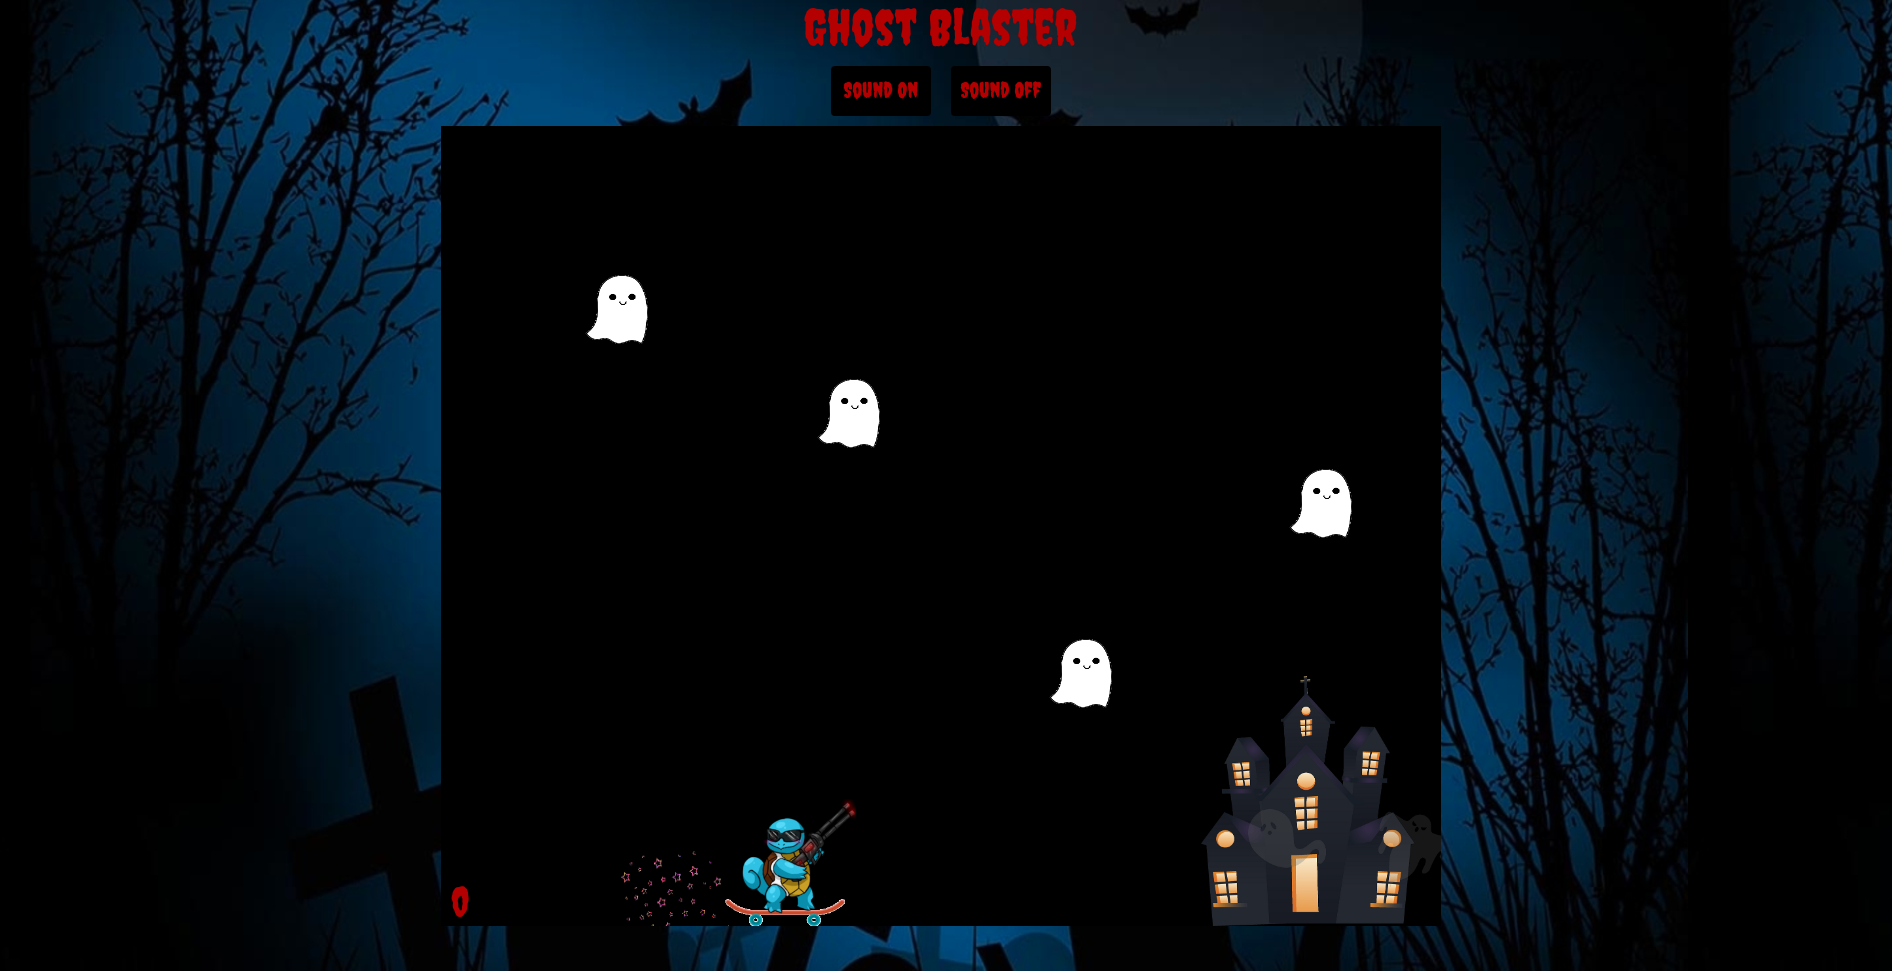
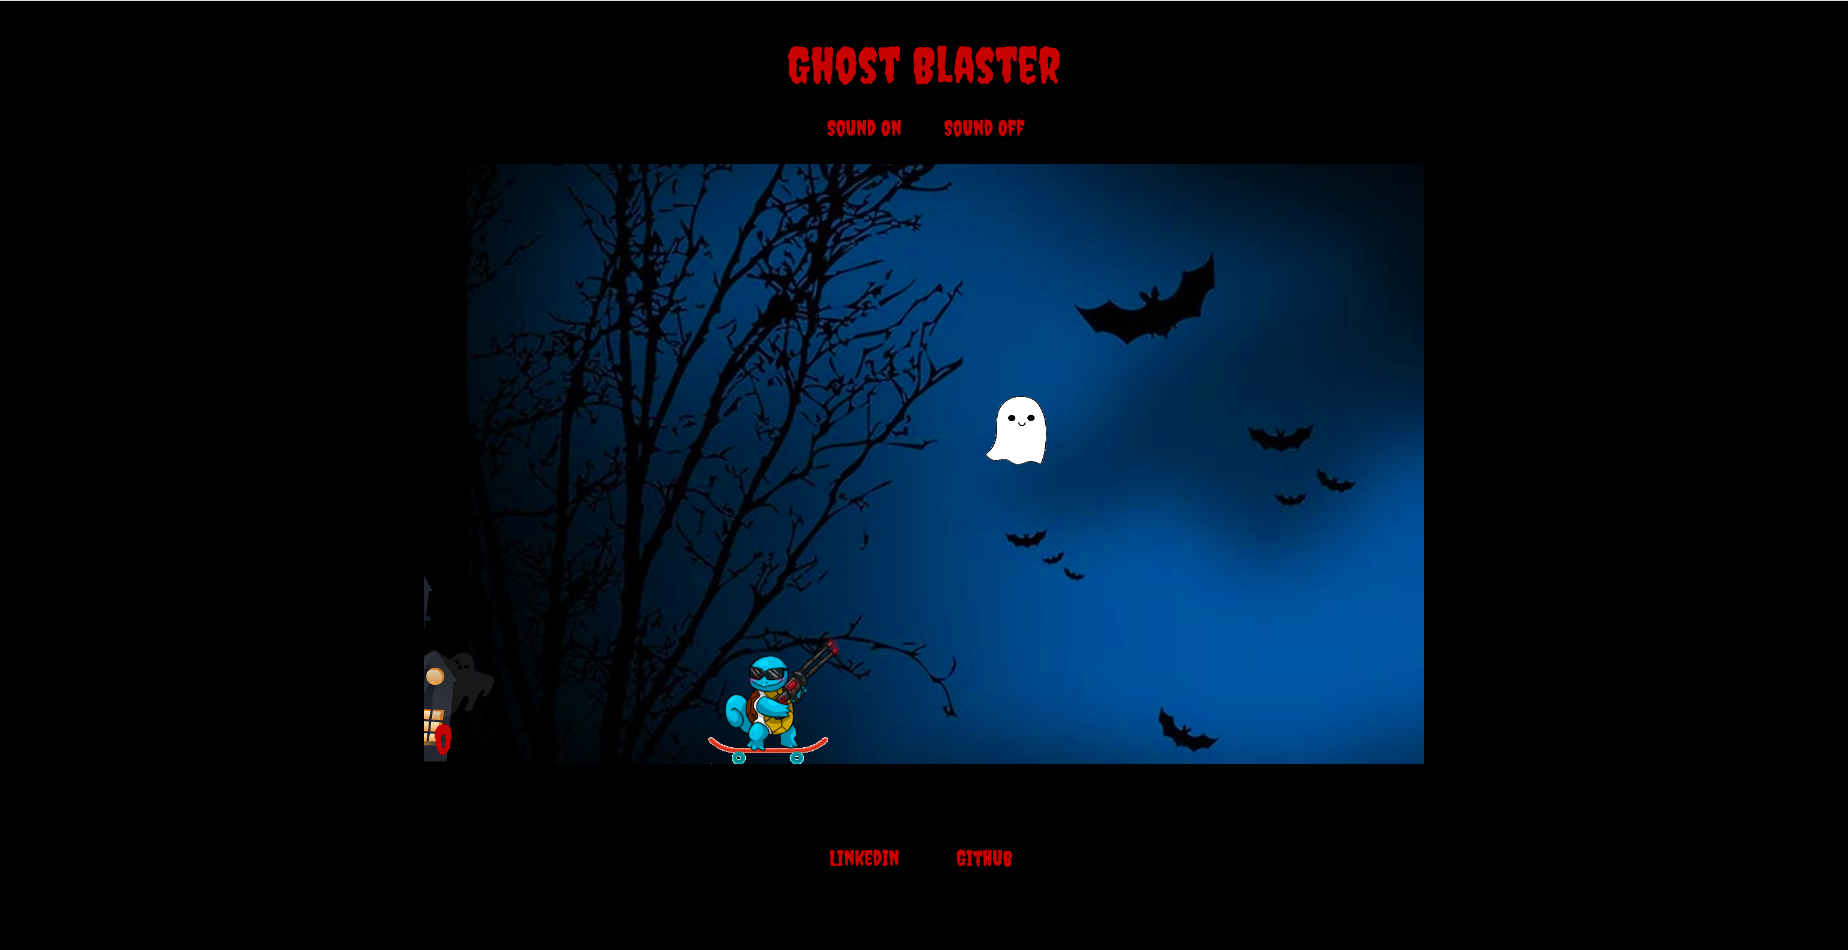
changed readme photos

diff --git a/README.md b/README.md
@@ -13,7 +13,7 @@ Ghost Blaster was made using:
 
 Upon visiting the game site, a player sees the shooter in his starting position, and instructions on how to play the game. 
 
-![alt text](images/game.png)
+![alt text](images/ghostblaster_splash.png)
 
 When the player presses any button, the game starts and ghosts begin generating on the screen.
 
